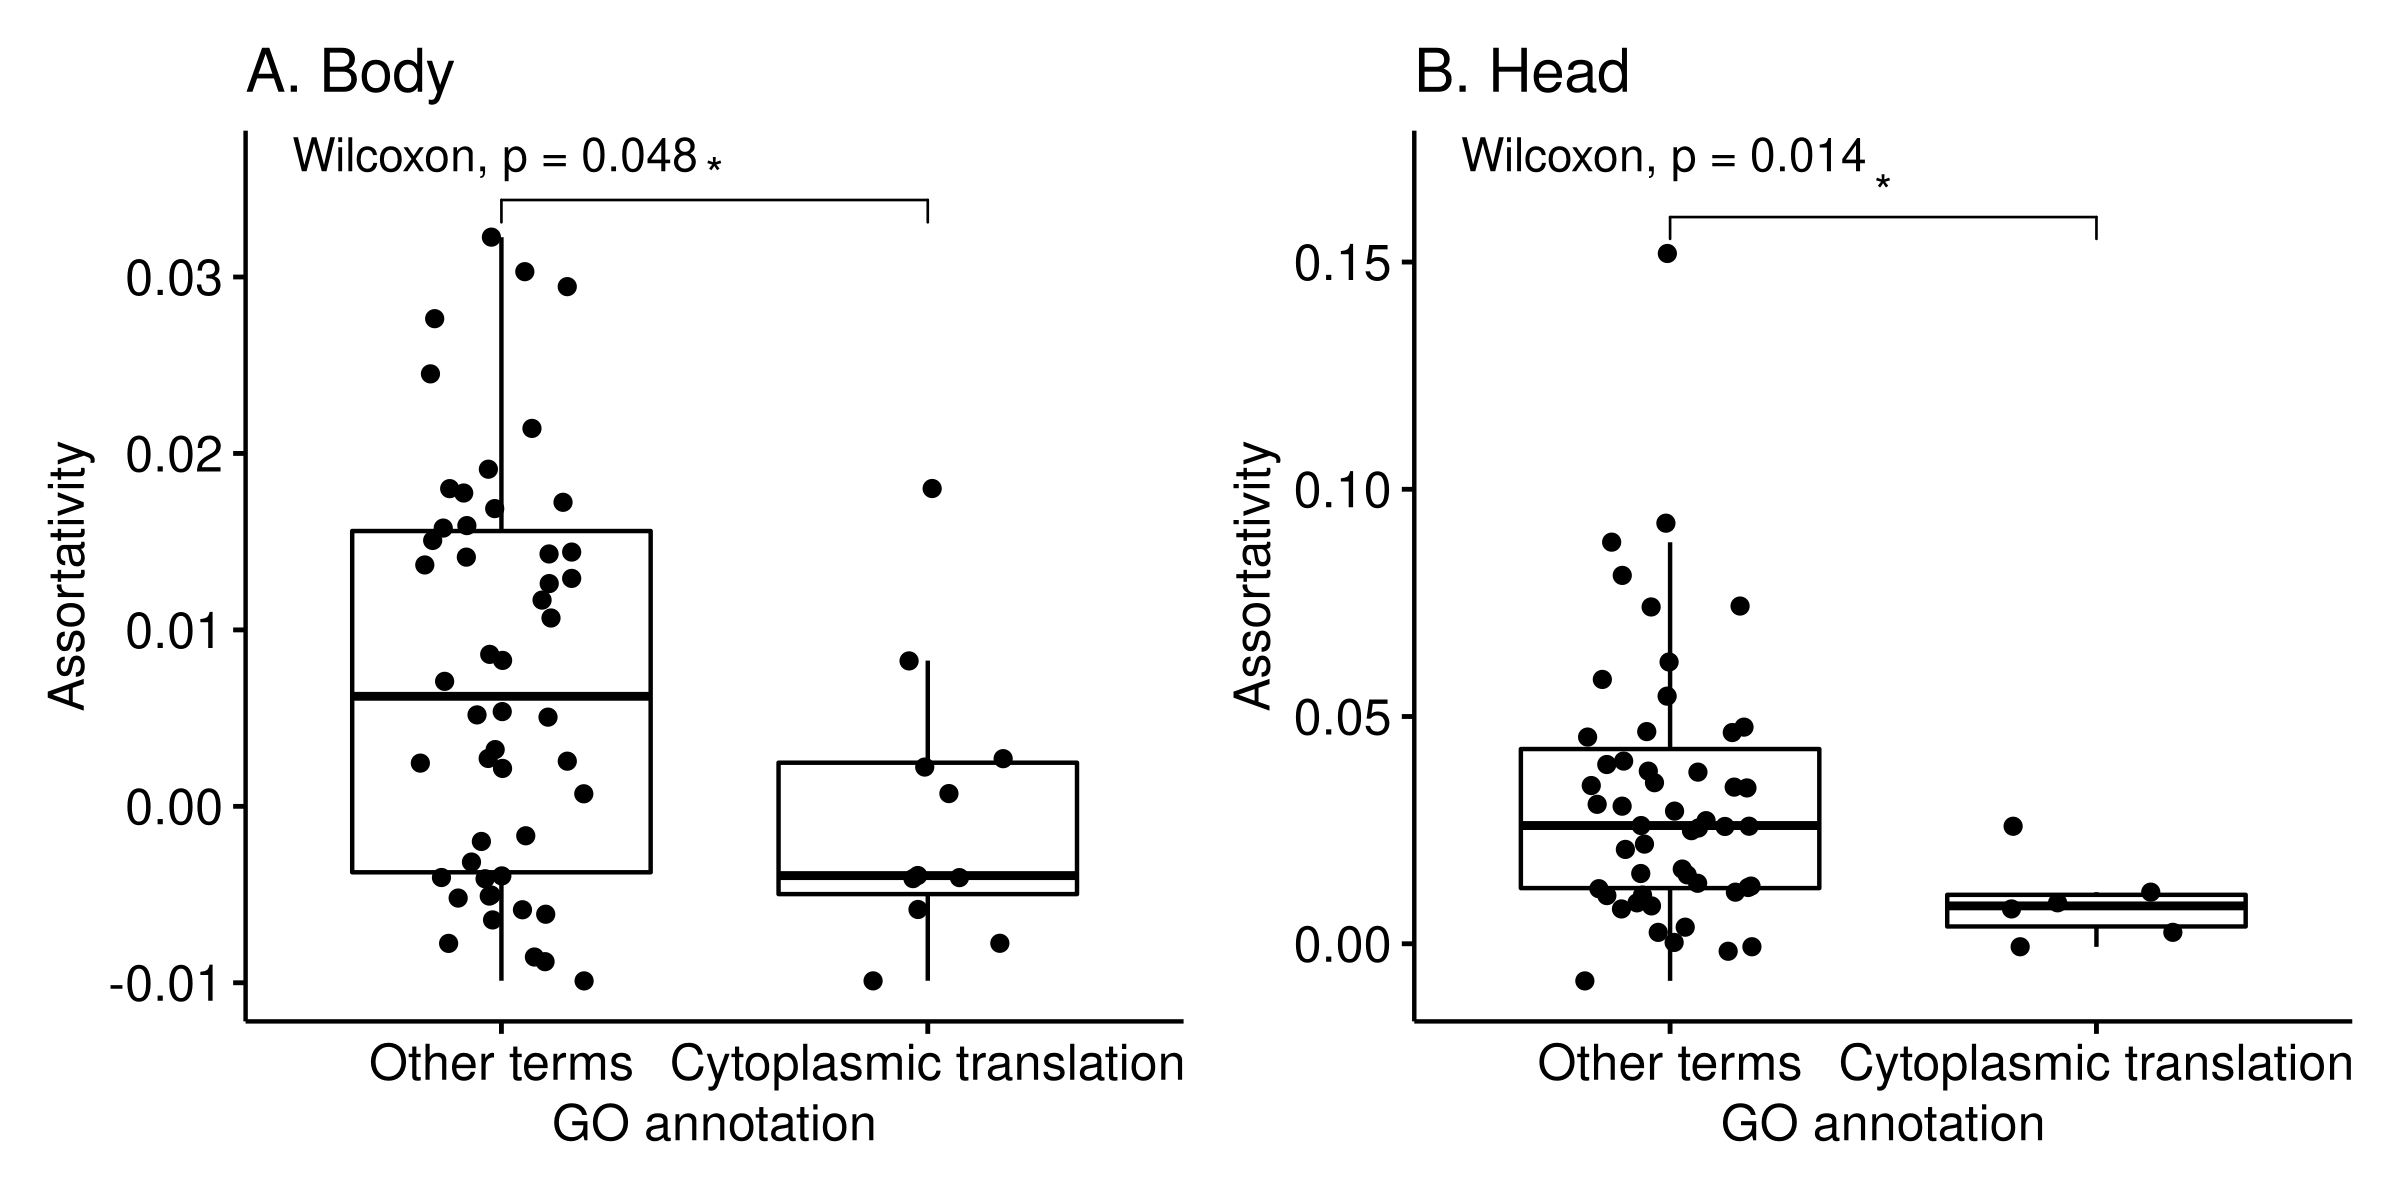
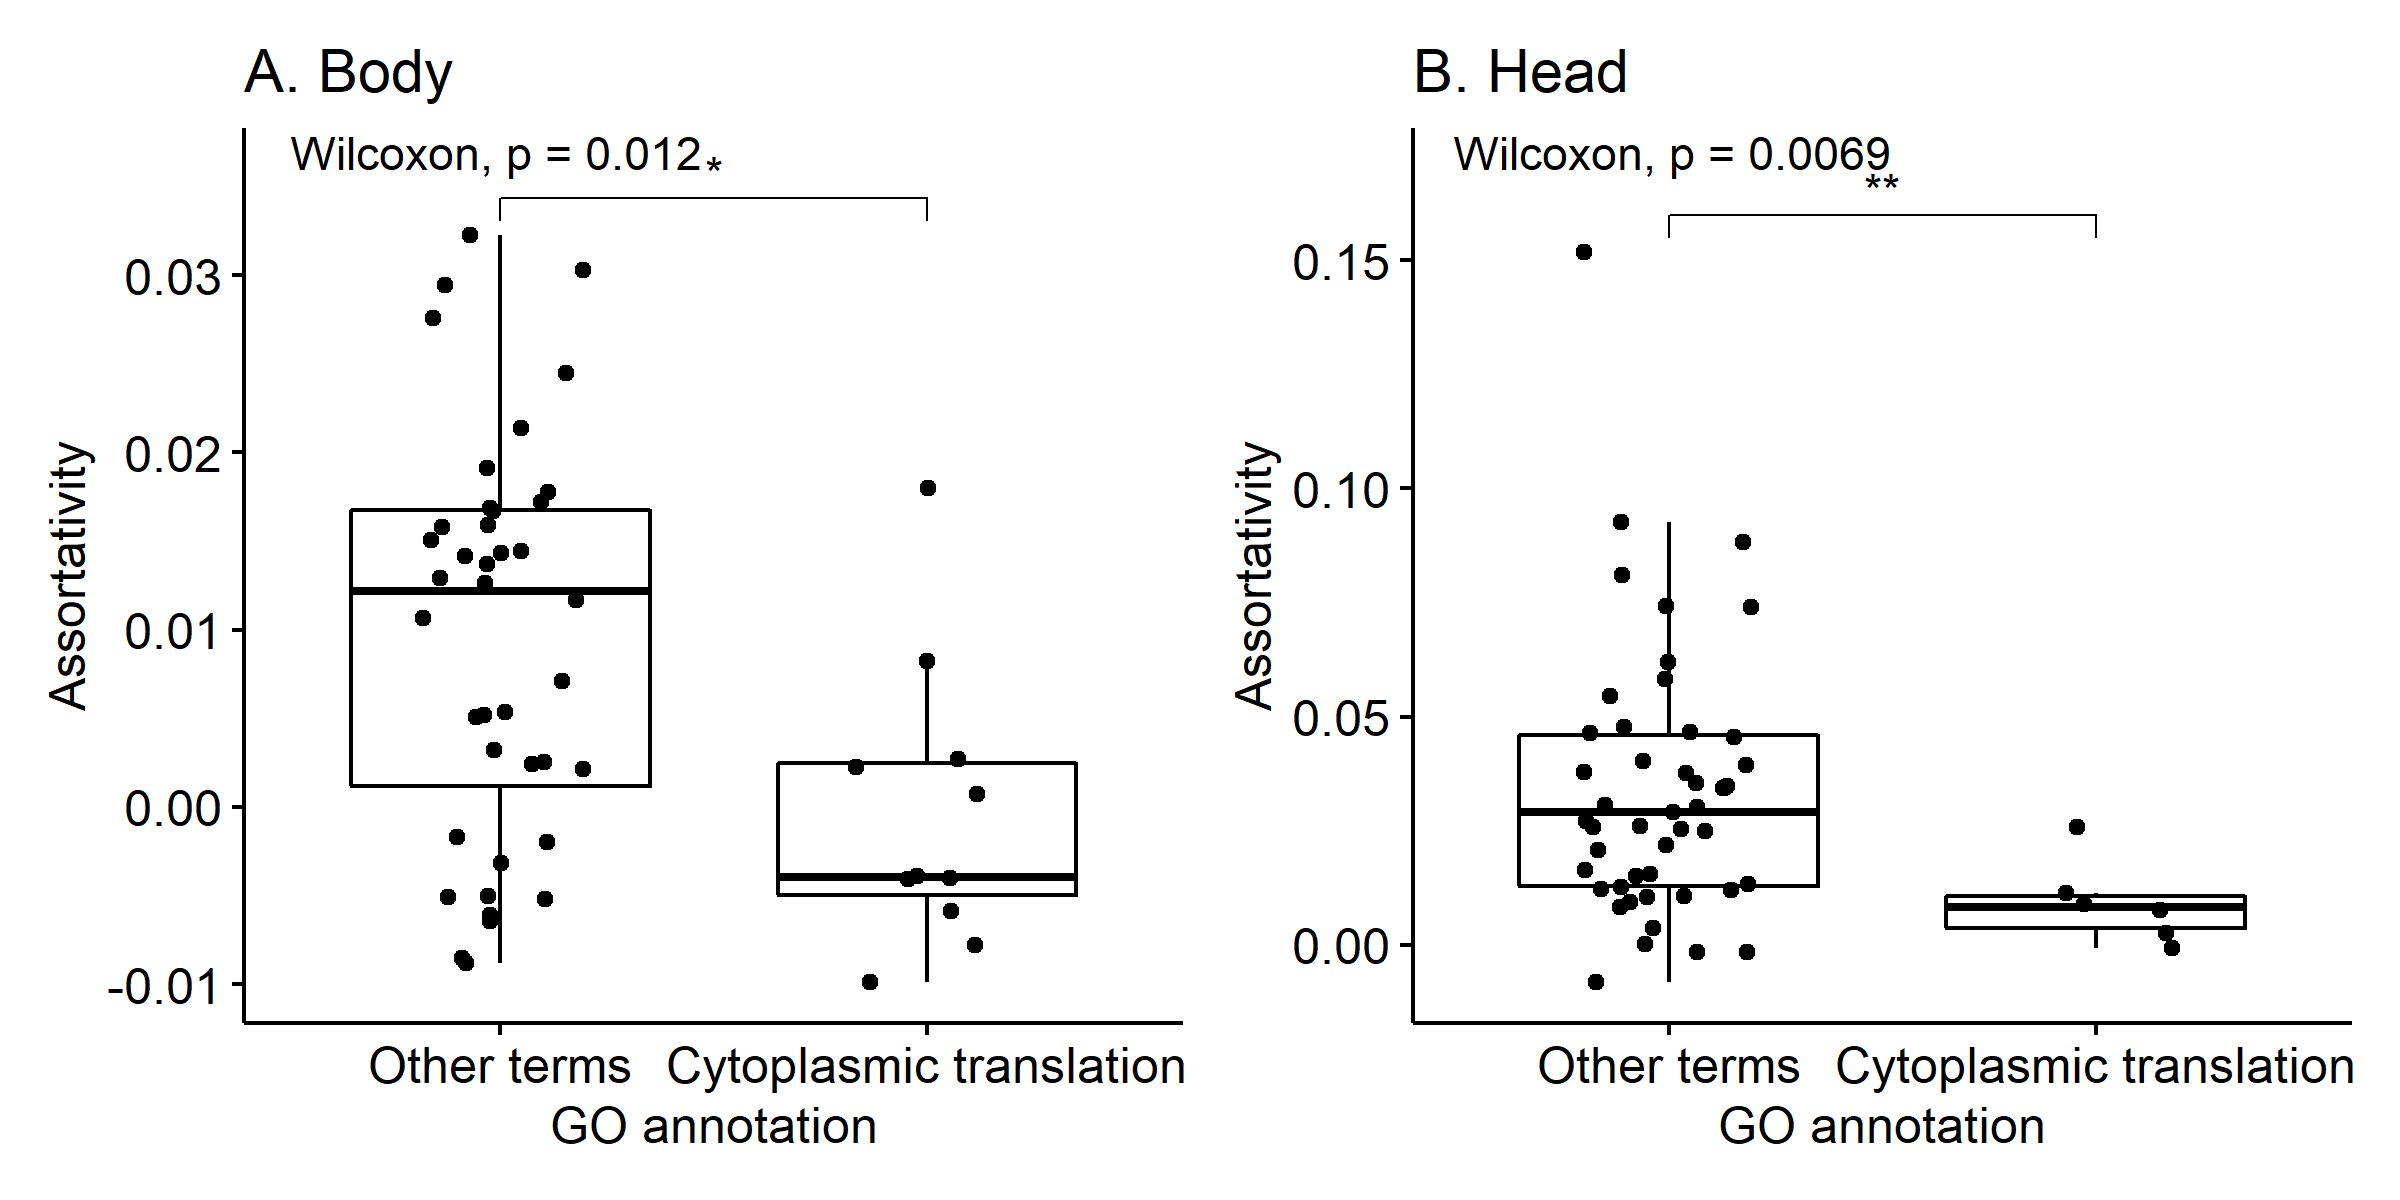
complete new results and new figures

diff --git a/main.md b/main.md
@@ -144,7 +144,7 @@ WGCNA partitioned 2118 genes into 7 modules in the body and 1600 genes into 7 in
 
 MMC failed to cluster most genes, placing almost all genes into the same large module. Given this poor performance on our data, we do not discuss MMC further and instead focus on comparing SBM to WGCNA.
 
-![Comparison of the clustering in WGCNA and in levels 2 and 3 of the SBM for the gene expressions in the body (left) and the head (right). Each point corresponds to a gene. The x axis corresponds to the Level 2 SBM blocks, y axis the WGCNA modules. Colors correspond to the (coarser) level 3 of the SBM.](figures/WGCNA_comparison.png){#fig:wgcna_compare}
+![Comparison of the clustering in WGCNA and in levels 3 and 4 of the SBM hierarchy for the gene expressions in the body (left) and the head (right). Each point corresponds to a gene. The x axis corresponds to the Level-3 SBM blocks, y axis the WGCNA modules. Colors correspond to the (coarser) level 4 of the SBM.](figures/WGCNA_comparison.png){#fig:wgcna_compare}
 
 ## Modularity and assortativity
 
@@ -159,8 +159,8 @@ The majority of blocks in SBM show some level of GO enrichment (Table 1). In par
 
   Tissue     Level 1          Level 2           Level 3        Level 4     Level 5
 --------    --------------   ---------------  ------------- ------------- -------------
-Head         63\% (52/82)     95\% (20/21)     100\% (6/6)   100\% (3/3)   100\% (2/2)
-Body         68\% (56/78)     95\% (20/21)     100\% (9/9)   100\% (3/3)   100\% (2/2)
+Head         65\% (53/82)     100\% (21/21)    100\% (6/6)   100\% (3/3)   100\% (2/2)
+Body         65\% (51/78)     95\% (20/21)     100\% (9/9)   100\% (3/3)   100\% (2/2)
       
 Table: Number of blocks at each level that show significant GO enrichment at the 5\% FDR level with a minimum of 4 genes in the enriched set.
 
@@ -168,9 +168,9 @@ Table: Number of blocks at each level that show significant GO enrichment at the
 
 ### Notable individual clusters
 
-Level 2 block 0-0-0 in the head is one of the easiest to interpret, being entirely related to brain tissue function. @Fig:go_map shows the top 8 GO categories for each of the level-1 blocks in block 0-0-0, and the most neuronal enriched WGCNA grouping, module 4. The SBM blocks separate vesicle exocytosis, neuronal differentiation, phototransduction, synaptic signaling, and, interestingly, there is a block related to mRNA processing, which is notable given that alternative splicing is thought to be more common in brain tissues [@Su2018-nz]. WGCNA module 4 recovers some of this enrichment, but in a less granular way. The cell adhesion and developmental part of the enrichment in block 0-0-0 is separated between WGCNA modules 4 and 5. Some of the level-1 blocks shown in @fig:go_map are among the most assortative (above 0.03, see @fig:modularity B), and so are prime candidates for detection in WGCNA. The alternative splicing module has a much lower assortativity, and so its not surprising that WGCNA could not detect it.
+Level 2 block 0-0-0 in the head is one of the easiest to interpret, being entirely related to nervous tissue function. @Fig:go_map shows the top 8 GO categories for each of the level-1 blocks in block 0-0-0, and the most neuronal enriched WGCNA grouping, module 4. The SBM blocks separate vesicle exocytosis, neuronal differentiation, phototransduction, synaptic signaling, and, interestingly, there is a block related to mRNA processing, which is notable given that alternative splicing is thought to be more common in brain tissues [@Su2018-nz]. WGCNA module 4 recovers some of this enrichment, but in a less granular way. The cell adhesion and developmental part of the enrichment in block 0-0-0 is separated between WGCNA modules 4 and 5. Some of the level-1 blocks shown in @fig:go_map are among the most assortative (above 0.03, see @fig:modularity B), and so are prime candidates for detection in WGCNA. The alternative splicing module has a much lower assortativity, and so its not surprising that WGCNA could not detect it.
 
-Some of the most specific enrichments in the SBM are the translation related blocks. In both body and head, ribosomal proteins are clustered in small and highly enriched level-1 blocks: 12 level-1 blocks in the head and 16 in the body are composed of virtually only ribosomal related protein genes. All are very small, being composed of between 10-30 genes, and have low assortativity (mean: $0.002$, max: $0.02$, min: $-0.009$, @fig:assort_translation). There is no equivalent module in WGCNA, but all of the translation related genes are in the same much larger modules (module 2 in the head, 295 genes; and module 2 in the body, 345 genes), both of which show enrichment for translation but also for several other categories. The level-2 clustering of level-1 blocks in the SBM is also informative. In the head, all of the translation level-1 blocks are in their own level-2 blocks (1-1-1 and 6-1-1). In contrast, in the body, the level-1 translation block share a level-2 blocks with cell respiration blocks. In the body, blocks 1-1-1 and 11-1-1 are about evenly split into translation and mitochondrial respiration level-1 blocks. WGCNA also places cell respiration related genes in the body on the same module 2.
+Some of the most specific enrichments in the SBM are the translation related blocks. In both body and head, ribosomal proteins are clustered in small and highly enriched level-1 blocks: 6 level-1 blocks in the head and 11 in the body are composed of virtually only ribosomal related protein genes. All are very small, being composed of between 10-30 genes, and have low assortativity (mean: $0.002$, max: $0.02$, min: $-0.009$, @fig:assort_translation), and are enriched for very few terms, almost all related to translation. In the body, all of these translation blocks are grouped in level-4 block 1; in the head they are split between level-4 blocks 1 and 2. Both groups are visible in @fig:Emats . There is no equivalent module in WGCNA, but all of the translation related genes are in the same much larger modules (module 2 in the head, 295 genes; and module 2 in the body, 345 genes), both of which show enrichment for translation but also for several other categories. In the body module 2 we see 68 enriched terms related to translation, cell respiration, and several small molecules metabolic processes; in module 2 of the head tissue we see 35 enriched terms related to translation, cell respiration and muscle development. The level-2 clustering of level-1 blocks in the SBM is also informative. In the head, all of the translation level-1 blocks are in their own level-2 blocks (8-4-1-1, 7-2-2-1 and 2-2-2-1). In contrast, in the body, the level-1 translation block share a level-2 blocks with cell respiration blocks. In the body, blocks 14-9-1-1 and 1-7-1-1 are about evenly split into translation and mitochondrial respiration level-1 blocks. WGCNA also places cell respiration related genes in the body on the same module 2.
 
 ![Comparison of assortativity values between level-1 blocks enriched for cytoplasmic translation and all other blocks.](figures/assortativity_cytoplasmic_translation.png){#fig:assort_translation}
 
